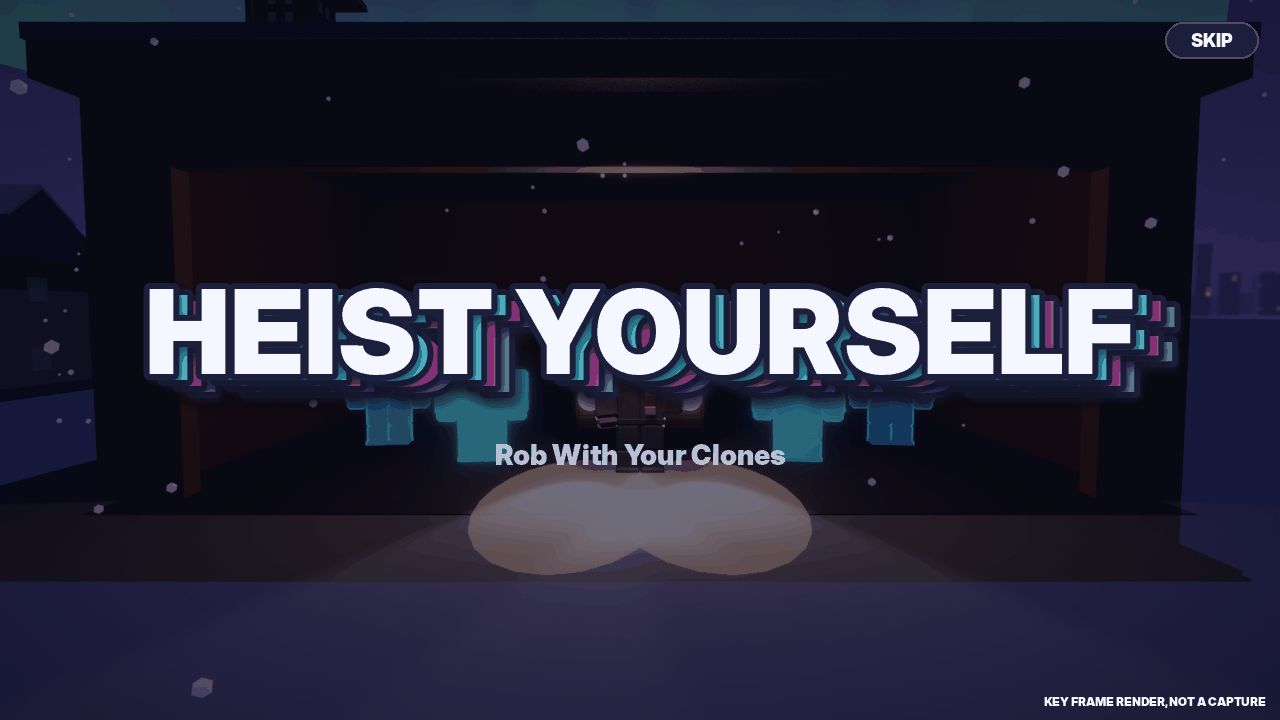
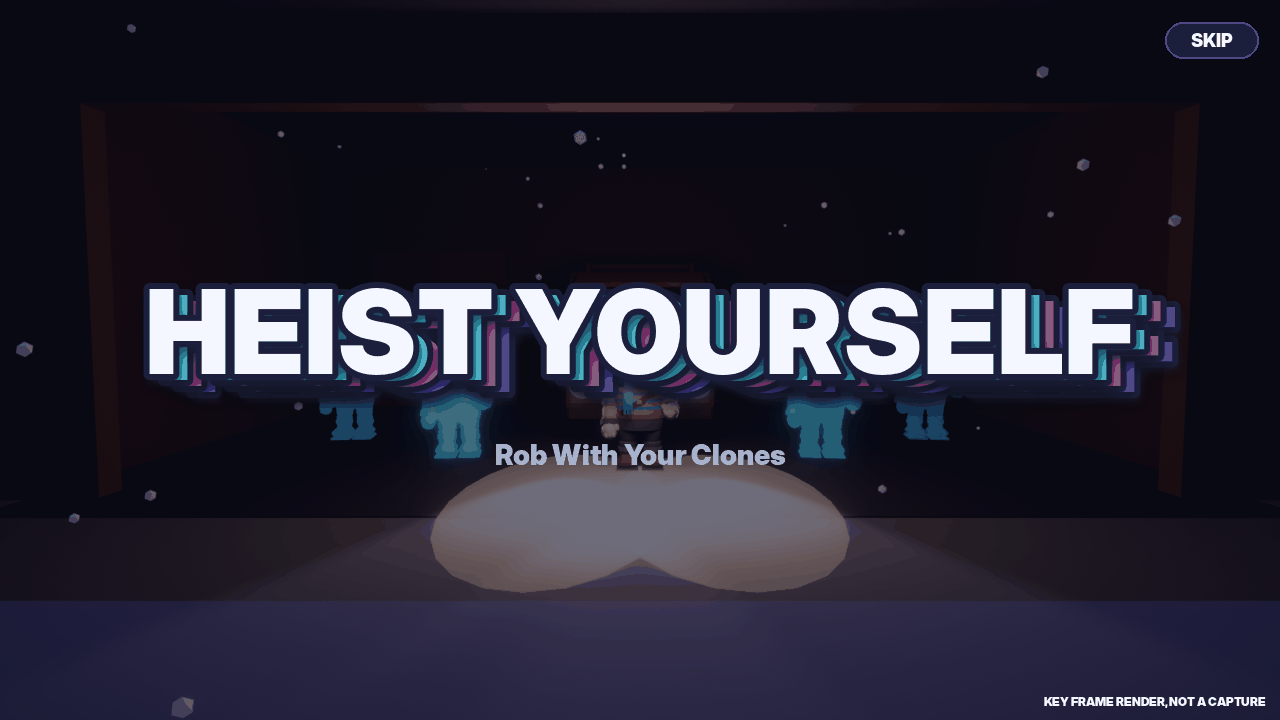
Intro: final key frames with the real Rookie; PROJECT_STATE and storyboard (engine v58: client_engine 50/0, engine_smoke 133/0; build_asset --all ALL GATES PASS)
Claude-Session: https://claude.ai/code/session_01QMSuPfsKra1qjqHBWxnEoR

diff --git a/PROJECT_STATE.md b/PROJECT_STATE.md
@@ -308,5 +308,6 @@ _Last updated: 2026-11-13 (story intro track)_
 - **Client:** `Heist/Cinematic` builds the stage locally at `Config.Intro.STAGE_ORIGIN` (0, 0, 7500: far from every heist slot; client parts are never streamed, anchored, no collide / query / touch) from `ReplicatedStorage/EH_IntroKit` (server `Heist/IntroKit`, published once the kit loads) with Part stand-ins for anything missing; suspends CameraDirector ("intro"), restores camera, Lighting, Sky orientation and its effects on every exit (end, SKIP, destroy, watchdog). SKIP button from frame 0 + any keyboard key (after 0.35 s) + ButtonB. Reduced motion: cuts, no shake, no flashes, no letterbox. Particles through `Heist/Particles` (snow reported as steady), flashes through `FlashLimit`, shake behind Settings "shake". `Cinematic.play()` is the entry for the lobby TV (lobby track wires it).
 - **Flow:** `Heist/Loading` plays it instead of the 3 s title beat when `PresentPlan.introDue` (the title's first-join rule + `Config.Intro.ENABLED`; offline Studio only when staged), then the title card at rest takes over. **Server hold:** HeistService holds a new account's FTUE heist until the client sends `Heist.Ready` while preparing (the intro ended or was not due), at most `SERVER_HOLD_SECONDS` 48, so run 1 never ticks under the intro (no new remote). `EH_Scenario = "INTRO"` stages it in Studio over the garage.
 - **Assets** (`assets/blender/intro.py`, all gates pass, uploaded with `tools/kit_upload.py`): Hoardsworth 79882422494775 (17-part rig, 3,684 tris), Intro_Lever 136644252288726, Intro_Vacuum 81402106868569, Intro_SnowGlobe 101004713770736, Intro_Present_A/B/C 101197081641449 / 103054968493943 / 100199303227377, Intro_Letter 101253194939214, Intro_House_A/B 117193090557906 / 73030213951767. New palette role `villain` (env + char + xmas, no location cells; P3 fixed role) and 3 NEON entries. Key frames: `docs/art/intro/shot_1..7.png` + `contact_sheet.png` (`python3 tools/blender/intro_shots.py`, staged from `tools/blender/intro_plan.luau` = the same IntroPlan data).
-- **Tests:** unit 460 (HeistIntro: 30-40 s, <= 6 words, ASCII, smooth camera, whip vs reduced cut, no shake when reduced, props, cue table, SKIP-at-any-time end state, rig vs manifest, stage placement; HeistPresent introDue; HeistScenario INTRO), sim 225, `client_engine` section J on Saved v53: 47 checks, 0 failed (kit published, stage built, every shot stepped by hand, SKIP end state, restore).
-- **Open:** the Rookie is a Part stand-in until `ReplicatedStorage.CharacterKit.Rookie` exists (it swaps in automatically when the garage is built; posing that rig waits on its joint format: TODO(character)); the aurora is local Beams until the SKY track's Aurora module lands (swap then); 13 intro cues need licensed ids or the music commission; not yet watched in a Studio play session or on a phone (feel, timing, phone perf at tier 3-4); lobby TV wiring (lobby track).
+- **The Rookie (after merging main):** the cinematic uses `ReplicatedStorage.CharacterKit.Rookie` (R15 template from the CHARACTER track), posed through its Motor6D.Transform with the plan's joint angles, smug face on the grin; the four clones are Clone Cyan copies striking his pose. The Part stand-in only runs when the kit never arrived. The key frames render the same kit FBX with the default outfit.
+- **Tests:** unit 484 (HeistIntro: 30-40 s, <= 6 words, ASCII, smooth camera, whip vs reduced cut, no shake when reduced, props, cue table, SKIP-at-any-time end state, rig vs manifest, stage placement; HeistPresent introDue; HeistScenario INTRO), sim 225, all lint / layout / glyph / UI-kit / clips checks, 4 places + place_check, `build_asset.py --all` ALL GATES PASS. Engine on Saved **v58**: `client_engine` 50 checks, 0 failed (section J: kit published, stage built, every shot stepped by hand with the CharacterKit Rookie and its motors, SKIP end state, restore); `engine_smoke` 133 ok, 0 failures.
+- **Open:** the aurora is local Beams until the SKY track's Aurora module lands (swap then); 13 intro cues need licensed ids or the music commission; not yet watched in a Studio play session or on a phone (feel, timing, Motor6D posing of the kit Rookie on a live client, phone perf at tier 3-4); lobby TV wiring (lobby track); the Rookie's crew hue in the intro is the template's seat-1 colour, not the player's own outfit yet.

diff --git a/docs/art/intro/STORYBOARD.md b/docs/art/intro/STORYBOARD.md
@@ -42,6 +42,6 @@ the letterbox, punch in (1.18 → 1) and fade with each shot; six words at most 
 | Intro_Letter | the kid's letter: cream envelope, burgundy seal, crayon star | 160 |
 | Intro_House_A/B | toy-town houses with snow roofs, wreaths, sills; lit windows are Neon (out on "...GONE.") | 1,092 each |
 
-The Rookie: `ReplicatedStorage.CharacterKit.Rookie` when the CHARACTER track publishes it (read when the garage is
-built); until then a labelled stand-in (TODO(character)). The van, street lamps and the tree are launch-kit pieces.
+The Rookie: `ReplicatedStorage.CharacterKit.Rookie` (the CHARACTER track, R15, posed through its Motor6Ds; read when the garage is
+built); a Part stand-in only if the kit never arrived. The van, street lamps and the tree are launch-kit pieces.
 The tower, ground, garage walls and the aurora are built by code.
